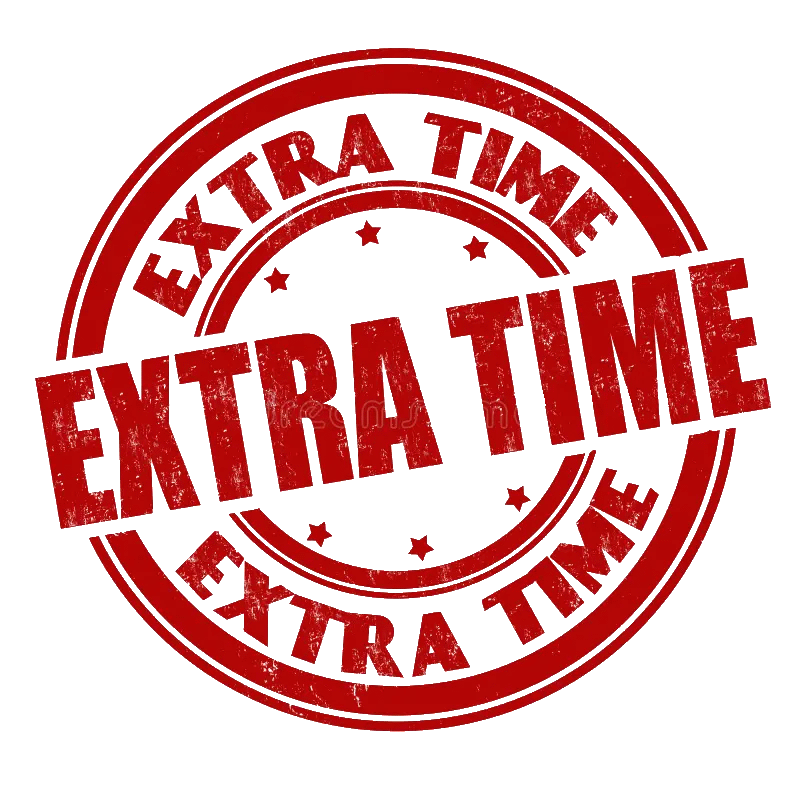
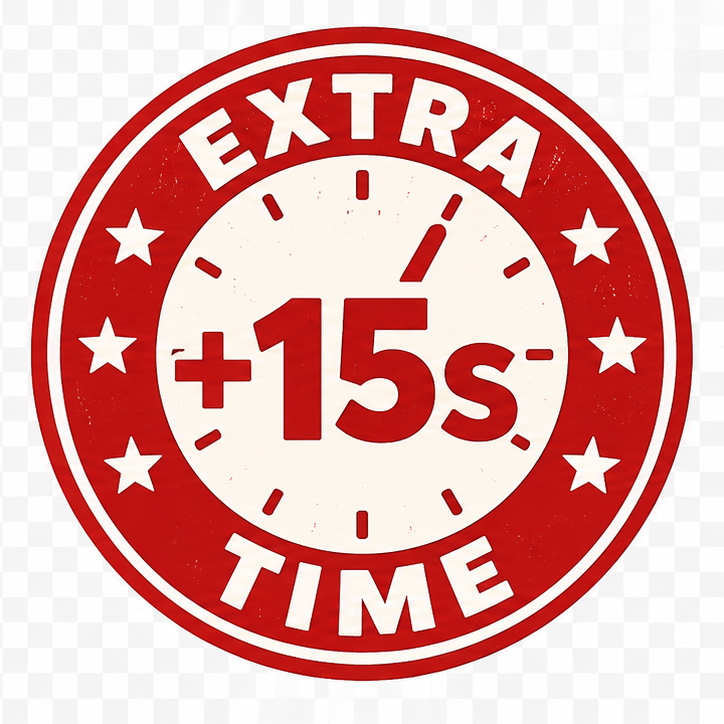
changes

diff --git a/public/index.html b/public/index.html
@@ -236,6 +236,16 @@
             0% { opacity: 1; }
             100% { opacity: 0; }
         }
+        .countdown-fade-out {
+            animation: countdownFadeOut 2s ease-out forwards;
+        }
+        @keyframes whiteFlash {
+            0% { opacity: 0; }
+            100% { opacity: 1; }
+        }
+        .white-flash {
+            animation: whiteFlash 2s ease-out forwards;
+        }
         .flip-out {
             animation: flipOutY 0.15s ease-in forwards;
         }
@@ -244,6 +254,17 @@
         }
         .countdown-fade-out {
             animation: countdownFadeOut 2s ease-out forwards;
+        }
+        @keyframes backgroundFadeIn {
+            0% { opacity: 0; }
+            100% { opacity: 1; }
+        }
+        .background-fade-in {
+            animation: backgroundFadeIn 2s ease-in forwards;
+        }
+        @keyframes backgroundFadeIn {
+            0% { opacity: 0; }
+            100% { opacity: 1; }
         }
     </style>
 </head>
@@ -376,6 +397,9 @@
             const [countdownNumber, setCountdownNumber] = useState(10);
             const [countdownFlipping, setCountdownFlipping] = useState(false);
             const [countdownFading, setCountdownFading] = useState(false);
+            const [backgroundFading, setBackgroundFading] = useState(false);
+            const [showBlackScreen, setShowBlackScreen] = useState(false);
+            const [whiteFading, setWhiteFading] = useState(false);
             const [answerTextPosition, setAnswerTextPosition] = useState(null);
 
             // Google Sheets data
@@ -664,6 +688,8 @@
                                 setCountdownFading(gameState.countdownFading || false);
                                 setCurrentImageUrl(gameState.currentImageUrl || null);
                                 setTimersExpanded(gameState.timersExpanded || false);
+                                setBackgroundFading(gameState.backgroundFading || false);
+                                setWhiteFading(gameState.whiteFading || false);
                                 
                                 if (gameState.teamsConfirmed && !gameState.gameStarted && !gameState.showIntro) {
                                     setTeamsConfirmed(true);
@@ -709,15 +735,15 @@
             useEffect(() => {
                 if (showIntro) {
                     const timers = [
-                        setTimeout(() => setIntroStep(1), 500),      // Team 1 logo flies in
-                        setTimeout(() => setIntroStep(2), 2000),     // Team 2 logo flies in
-                        setTimeout(() => setIntroStep(3), 3500),     // Versus graphic appears
-                        setTimeout(() => setIntroStep(4), 4500),     // Shake animation
-                        setTimeout(() => setIntroStep(5), 5500),     // Fade out versus, fade in game
+                        setTimeout(() => setIntroStep(1), 6000),      // Team 1 logo flies in
+                        setTimeout(() => setIntroStep(2), 7500),     // Team 2 logo flies in
+                        setTimeout(() => setIntroStep(3), 9000),     // Versus graphic appears
+                        setTimeout(() => setIntroStep(4), 10000),     // Shake animation
+                        setTimeout(() => setIntroStep(5), 11000),     // Fade out versus, fade in game
                         setTimeout(() => {
                             setShowIntro(false);
                             setGameStarted(true);
-                        }, 7000)  // Start game
+                        }, 12000)  // Start game
                     ];
                     return () => timers.forEach(timer => clearTimeout(timer));
                 }
@@ -1436,46 +1462,57 @@
                 setCountdownFlipping(false);
                 setTimeout(() => broadcastGameState(), 100);
                 
-                // Play the countdown audio file
-                const audio = new Audio(`${audioPath}countdown.mp3`);
-                audio.play().catch(err => console.log('Audio play failed:', err));
-                
                 // Run the countdown sequence
                 const runCountdown = (startNum) => {
                     for (let i = 0; i < startNum; i++) {
                         const num = startNum - i;
                         const timeMs = i * 1000;
                         
-                        // Show the number
                         setTimeout(() => {
                             setCountdownFlipping(false);
                             setCountdownNumber(num);
                             setTimeout(() => broadcastGameState(), 50);
                         }, timeMs);
                         
-                        // Start flip out 150ms before next number appears
                         setTimeout(() => {
                             setCountdownFlipping(true);
                         }, timeMs + 850);
                     }
                     
-                    // After all numbers done, fade out
+                    // After last number, start white flash
                     setTimeout(() => {
                         setCountdownFading(true);
                         setTimeout(() => broadcastGameState(), 50);
+                        // After 2 seconds white is fully bright, transition to intro
                         setTimeout(() => {
+                            setWhiteFading(true);
                             setShowCountdown(false);
                             setCountdownFading(false);
+                            setBackgroundFading(true);
                             setShowIntro(true);
-                            setTimeout(() => broadcastGameState(), 100);
+                            setTimeout(() => broadcastGameState(), 50);
+                            // Fade white out over 1.5 seconds to reveal black
+                            setTimeout(() => {
+                                setWhiteFading(false);
+                                setTimeout(() => broadcastGameState(), 50);
+                            }, 1500);
+                            // After white fades, background fades in
+                            setTimeout(() => {
+                                setBackgroundFading(false);
+                                setTimeout(() => broadcastGameState(), 50);
+                            }, 3500);
                         }, 2000);
                     }, startNum * 1000);
                 };
                 
-                // Wait 2.5 seconds for audio lead-in, then start visual countdown from 10
-                setTimeout(() => {
-                    runCountdown(10);
-                }, 2500);
+                // Play the countdown audio file and start visual countdown when audio begins
+                const audio = new Audio(`${audioPath}countdown.mp3`);
+                audio.onplay = () => {
+                    setTimeout(() => {
+                        runCountdown(10);
+                    }, 2000);
+                };
+                audio.play().catch(err => console.log('Audio play failed:', err));
             };
 
             // Broadcast game state to all streams
@@ -1530,6 +1567,8 @@
                         countdownNumber,
                         countdownFlipping,
                         countdownFading,
+                        backgroundFading,
+                        whiteFading,
                     };
                     
                     database.ref(`rooms/${roomCode}/gameState`).set(gameState);
@@ -2419,7 +2458,7 @@
             }
             
             // Admin Setup Wizard (HOST ONLY) - Steps 1-5
-            if (userMode === 'host' && !gameStarted && !showIntro && !showCountdown && (!teamsConfirmed || adminStep === 5)) {
+            if (userMode === 'host' && !gameStarted && !showIntro && !showCountdown && !backgroundFading && (!teamsConfirmed || adminStep === 5)) {
                 return (
                     <div className="relative w-screen h-screen overflow-hidden flex items-center justify-center p-8" style={{
                         backgroundImage: `url(${imagePath}background.png)`,
@@ -3069,46 +3108,85 @@
             // Countdown Screen - shown on both Host and Stream
             if (showCountdown) {
                 return (
-                    <div className={`relative w-screen h-screen flex flex-col items-center justify-start overflow-hidden ${countdownFading ? 'countdown-fade-out' : ''}`} style={{
-                        backgroundImage: `url(${imagePath}background.png)`,
-                        backgroundSize: '115%',
-                        backgroundPosition: '35% center',
-                        backgroundRepeat: 'no-repeat'
+                    <div style={{
+                        position: 'fixed',
+                        inset: 0,
+                        backgroundColor: 'black',
+                        zIndex: 9990
                     }}>
-                        {/* Dark overlay to make text more visible */}
-                        <div className="absolute inset-0" style={{backgroundColor: 'rgba(0,0,0,0.4)'}} />
-                        
-                        {/* "Match Starting In..." text */}
-                        <div className="relative z-10 text-white font-bold text-center mt-16" style={{
-                            fontSize: '60px',
-                            textShadow: '3px 3px 12px rgba(0,0,0,0.9)',
-                            WebkitTextStroke: '2px black'
+                        {/* Background image with dark overlay */}
+                        <div className={countdownFading ? 'countdown-fade-out' : ''} style={{
+                            position: 'absolute',
+                            inset: 0,
+                            backgroundImage: `url(${imagePath}background.png)`,
+                            backgroundSize: '115%',
+                            backgroundPosition: '35% center',
+                            backgroundRepeat: 'no-repeat'
                         }}>
-                            MATCH STARTING IN...
+                            {/* Dark overlay */}
+                            <div className="absolute inset-0" style={{backgroundColor: 'rgba(0,0,0,0.4)'}} />
+                            
+                            {/* Match Starting In text */}
+                            <div className="relative z-10 text-white font-bold text-center mt-16" style={{
+                                fontSize: '60px',
+                                textShadow: '3px 3px 12px rgba(0,0,0,0.9)',
+                                WebkitTextStroke: '2px black'
+                            }}>
+                                MATCH STARTING IN...
+                            </div>
+                            
+                            {/* Countdown Number */}
+                            <div style={{
+                                position: 'absolute',
+                                inset: 0,
+                                display: 'flex',
+                                alignItems: 'center',
+                                justifyContent: 'center'
+                            }}>
+                                {countdownNumber !== null && (
+                                    <div 
+                                        className={countdownFlipping ? 'flip-out' : 'flip-in'}
+                                        key={countdownNumber}
+                                        style={{
+                                            fontSize: '800px',
+                                            fontWeight: '900',
+                                            color: 'white',
+                                            WebkitTextStroke: '8px black',
+                                            textShadow: '10px 10px 30px rgba(0,0,0,0.9)',
+                                            lineHeight: '1',
+                                            display: 'inline-block',
+                                            transformStyle: 'preserve-3d'
+                                        }}
+                                    >
+                                        {countdownNumber}
+                                    </div>
+                                )}
+                            </div>
                         </div>
                         
-                        {/* Countdown Number */}
-                        <div className="relative z-10 flex items-center justify-center flex-1">
-                            {countdownNumber !== null && (
-                                <div 
-                                    className={countdownFlipping ? 'flip-out' : 'flip-in'}
-                                    key={countdownNumber}
-                                    style={{
-                                        fontSize: '800px',
-                                        fontWeight: '900',
-                                        color: 'white',
-                                        WebkitTextStroke: '8px black',
-                                        textShadow: '10px 10px 30px rgba(0,0,0,0.9)',
-                                        lineHeight: '1',
-                                        display: 'inline-block',
-                                        transformStyle: 'preserve-3d'
-                                    }}
-                                >
-                                    {countdownNumber}
-                                </div>
-                            )}
-                        </div>
+                        {/* White flash overlay - fades IN on top to simulate bright lights */}
+                        {countdownFading && (
+                            <div className="white-flash" style={{
+                                position: 'absolute',
+                                inset: 0,
+                                backgroundColor: 'white',
+                                zIndex: 9995,
+                                opacity: 0
+                            }} />
+                        )}
                     </div>
+                );
+            }
+
+            // Black screen between countdown and intro
+            if (showBlackScreen) {
+                return (
+                    <div style={{
+                        position: 'fixed',
+                        inset: 0,
+                        backgroundColor: 'black',
+                        zIndex: 9999
+                    }} />
                 );
             }
             
@@ -3225,12 +3303,29 @@
             // Intro Animation Screen
             if (showIntro) {
                 return (
-                    <div className="relative w-screen h-screen overflow-hidden flex items-center justify-center" style={{
-                        backgroundImage: `url(${imagePath}background.png)`,
-                        backgroundSize: '115%',
-                        backgroundPosition: '35% center',
-                        backgroundRepeat: 'no-repeat'
-                    }}>
+                    <div className="relative w-screen h-screen overflow-hidden" style={{backgroundColor: 'black'}}>
+                        
+                        {/* Background image - fades in after black appears */}
+                        <div style={{
+                            position: 'absolute',
+                            inset: 0,
+                            backgroundImage: `url(${imagePath}background.png)`,
+                            backgroundSize: '115%',
+                            backgroundPosition: '35% center',
+                            backgroundRepeat: 'no-repeat',
+                            opacity: backgroundFading ? 0 : 1,
+                            transition: 'opacity 2s ease-in'
+                        }} />
+                        {/* White overlay fading out - simulates lights dimming after flash */}
+                        {whiteFading && (
+                            <div style={{
+                                position: 'fixed',
+                                inset: 0,
+                                backgroundColor: 'white',
+                                zIndex: 9999,
+                                animation: 'countdownFadeOut 1.5s ease-out forwards'
+                            }} />
+                        )}
                         {/* Team 1 Logo */}
                         <div 
                             className={`absolute ${introStep >= 4 ? 'shake-1' : ''}`}